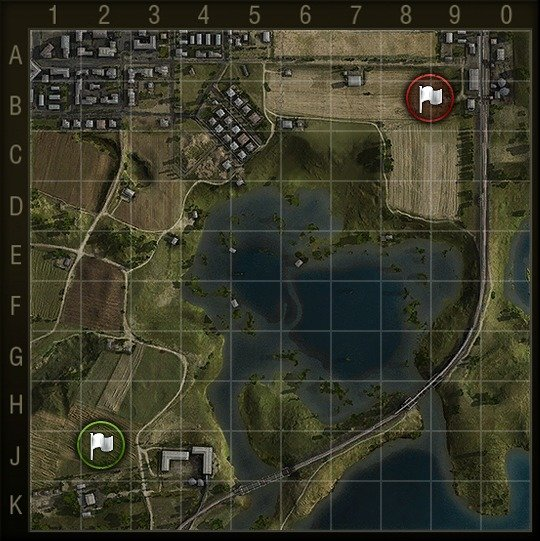
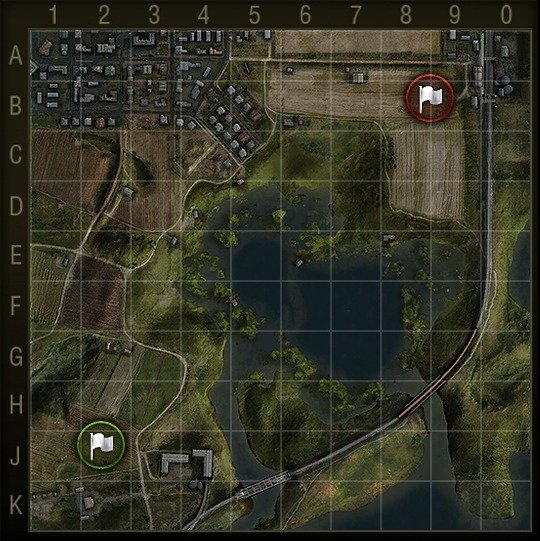
update maps for v0.9.7

diff --git a/index.html b/index.html
@@ -1,6 +1,6 @@
 <html>
 <body>
-<h1>World of Tanks (version 0.9.6) minimaps</h1>
+<h1>World of Tanks (version 0.9.7) minimaps</h1>
 
 <p>Maps generated using <a href=https://github.com/Kuitsi/WotMiniMapMaker>WotMiniMapMaker</a>.<br />
 Team 1 = green, Team 2 = red.</p>
@@ -42,6 +42,7 @@ Team 1 = green, Team 2 = red.</p>
 <a href="maps/murovanka_encounter.jpg">murovanka_encounter.jpg</a>
 <a href="maps/murovanka.jpg">murovanka.jpg</a>
 <a href="maps/northwest.jpg">northwest.jpg</a>
+<a href="maps/overlord.jpg">overlord.jpg</a>
 <a href="maps/pearl_river.jpg">pearl_river.jpg</a>
 <a href="maps/prokhorovka_encounter.jpg">prokhorovka_encounter.jpg</a>
 <a href="maps/prokhorovka.jpg">prokhorovka.jpg</a>
